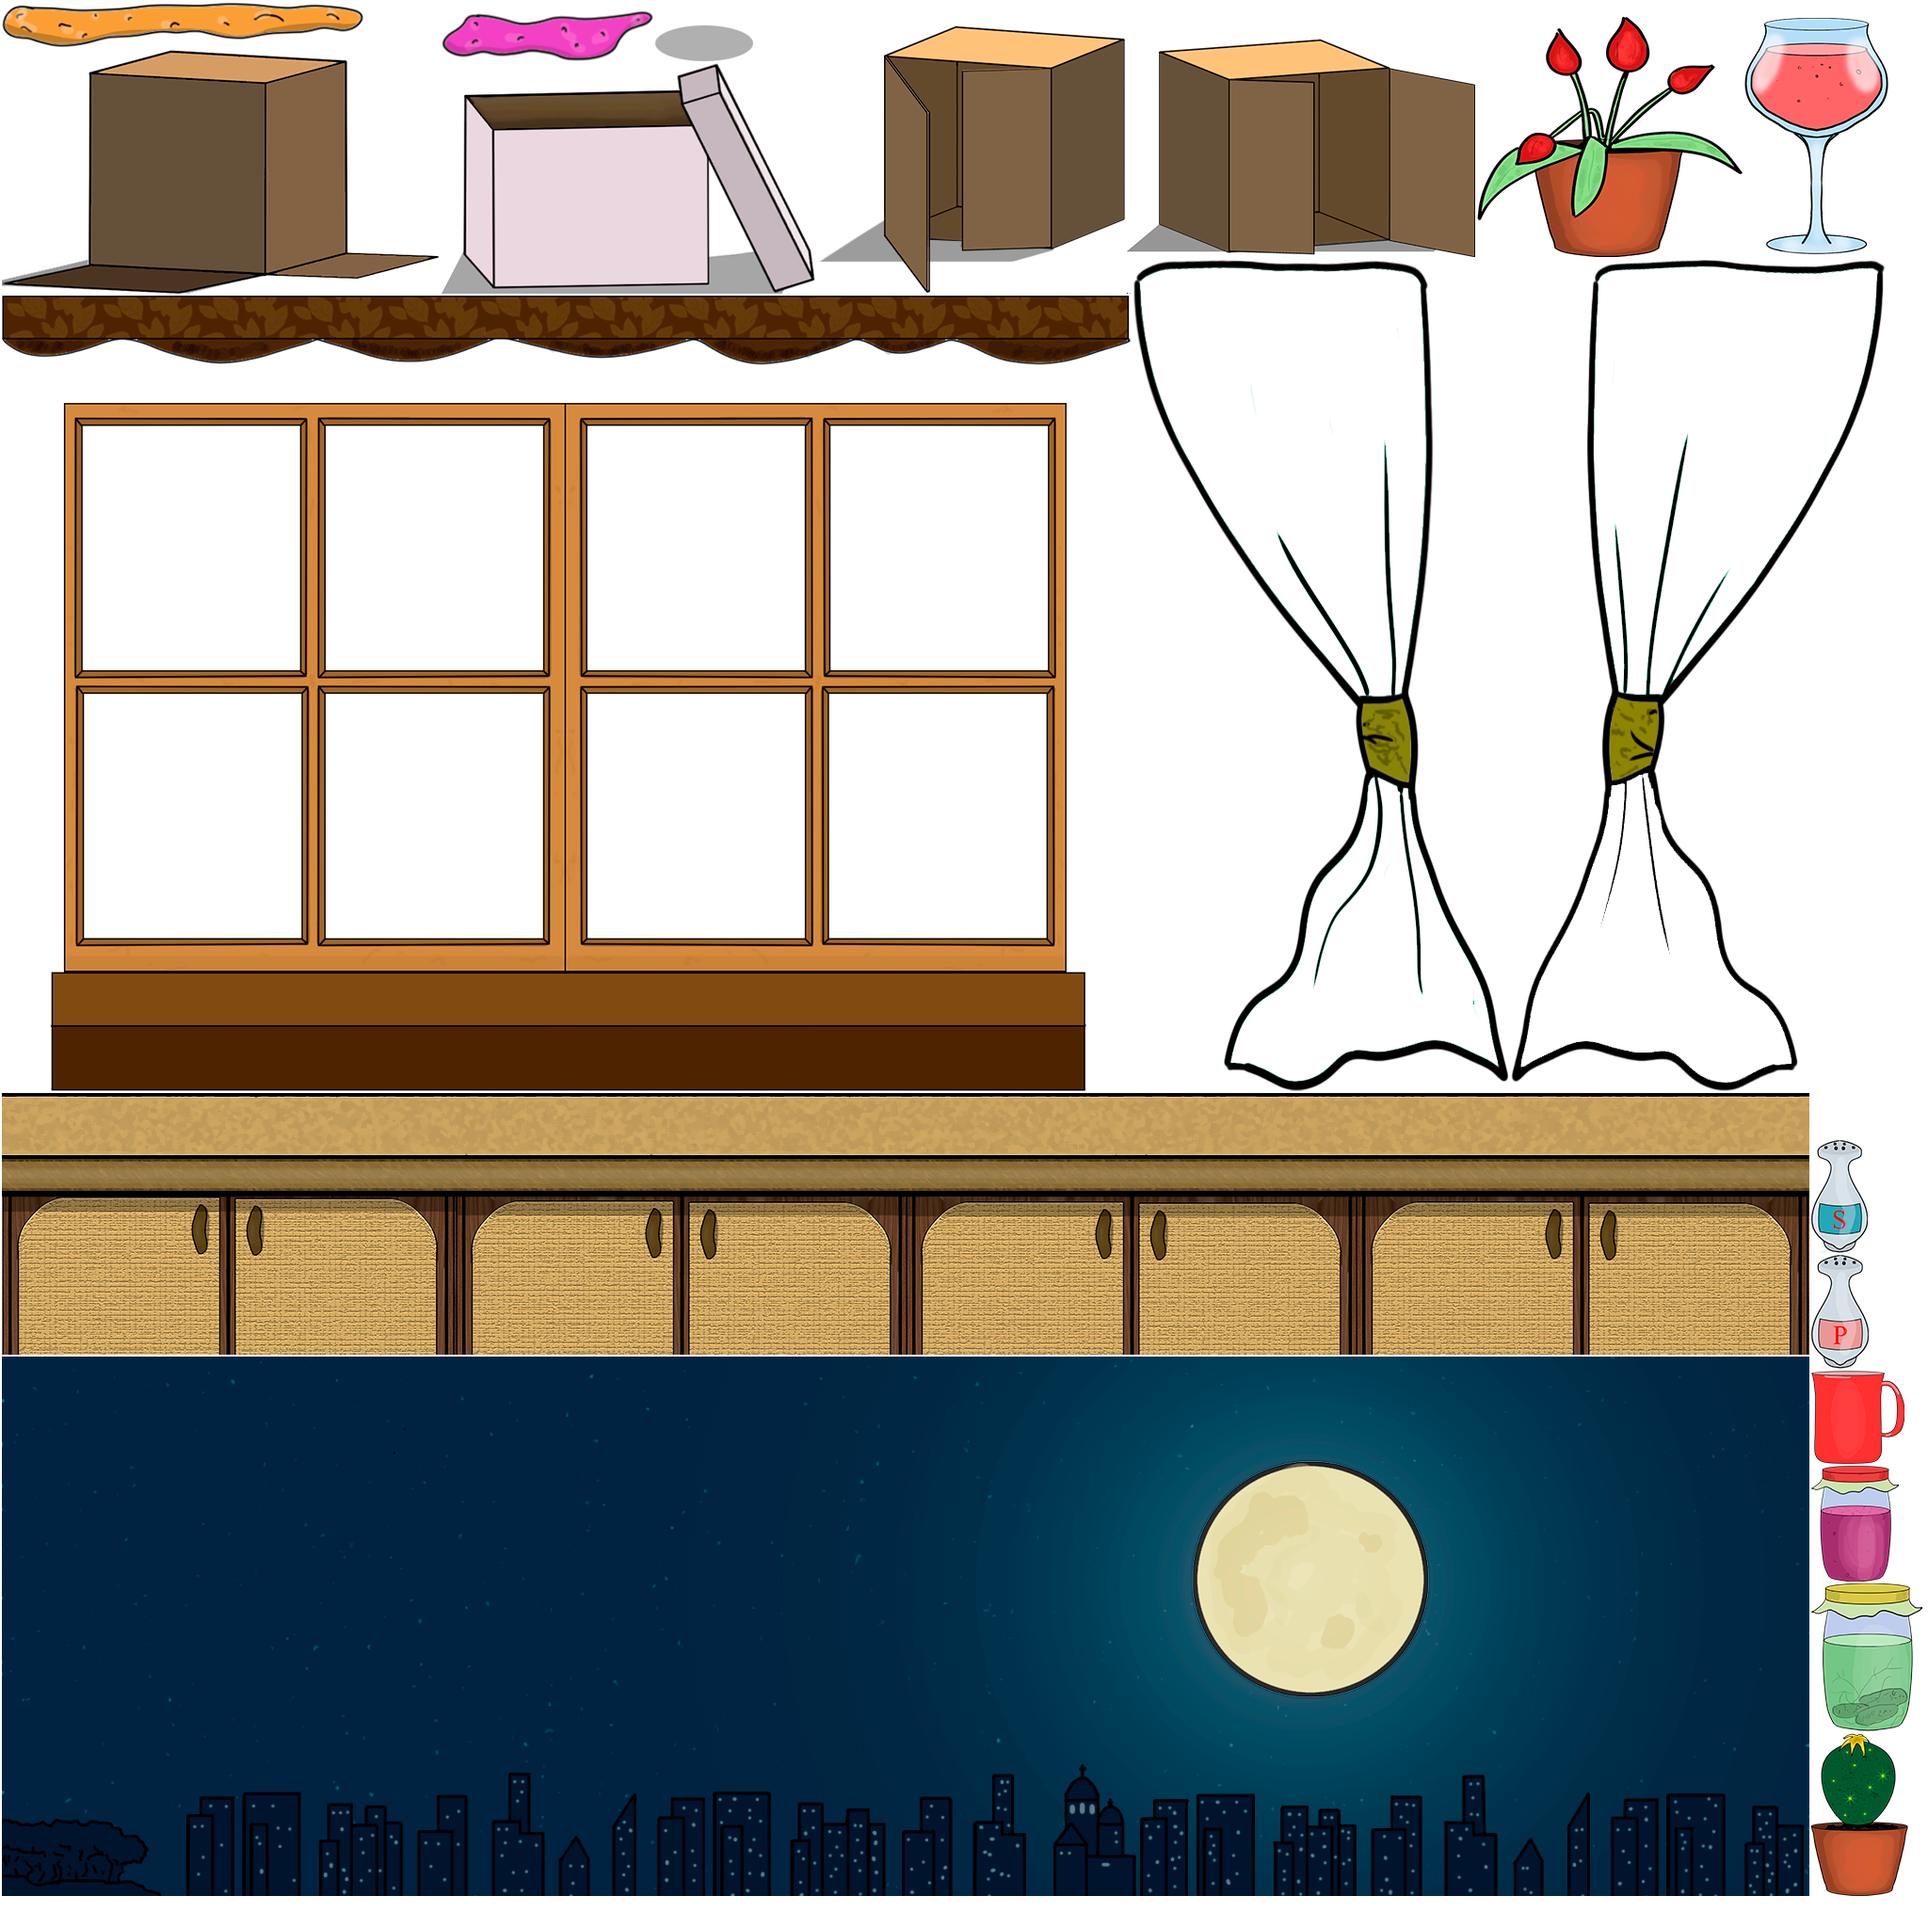
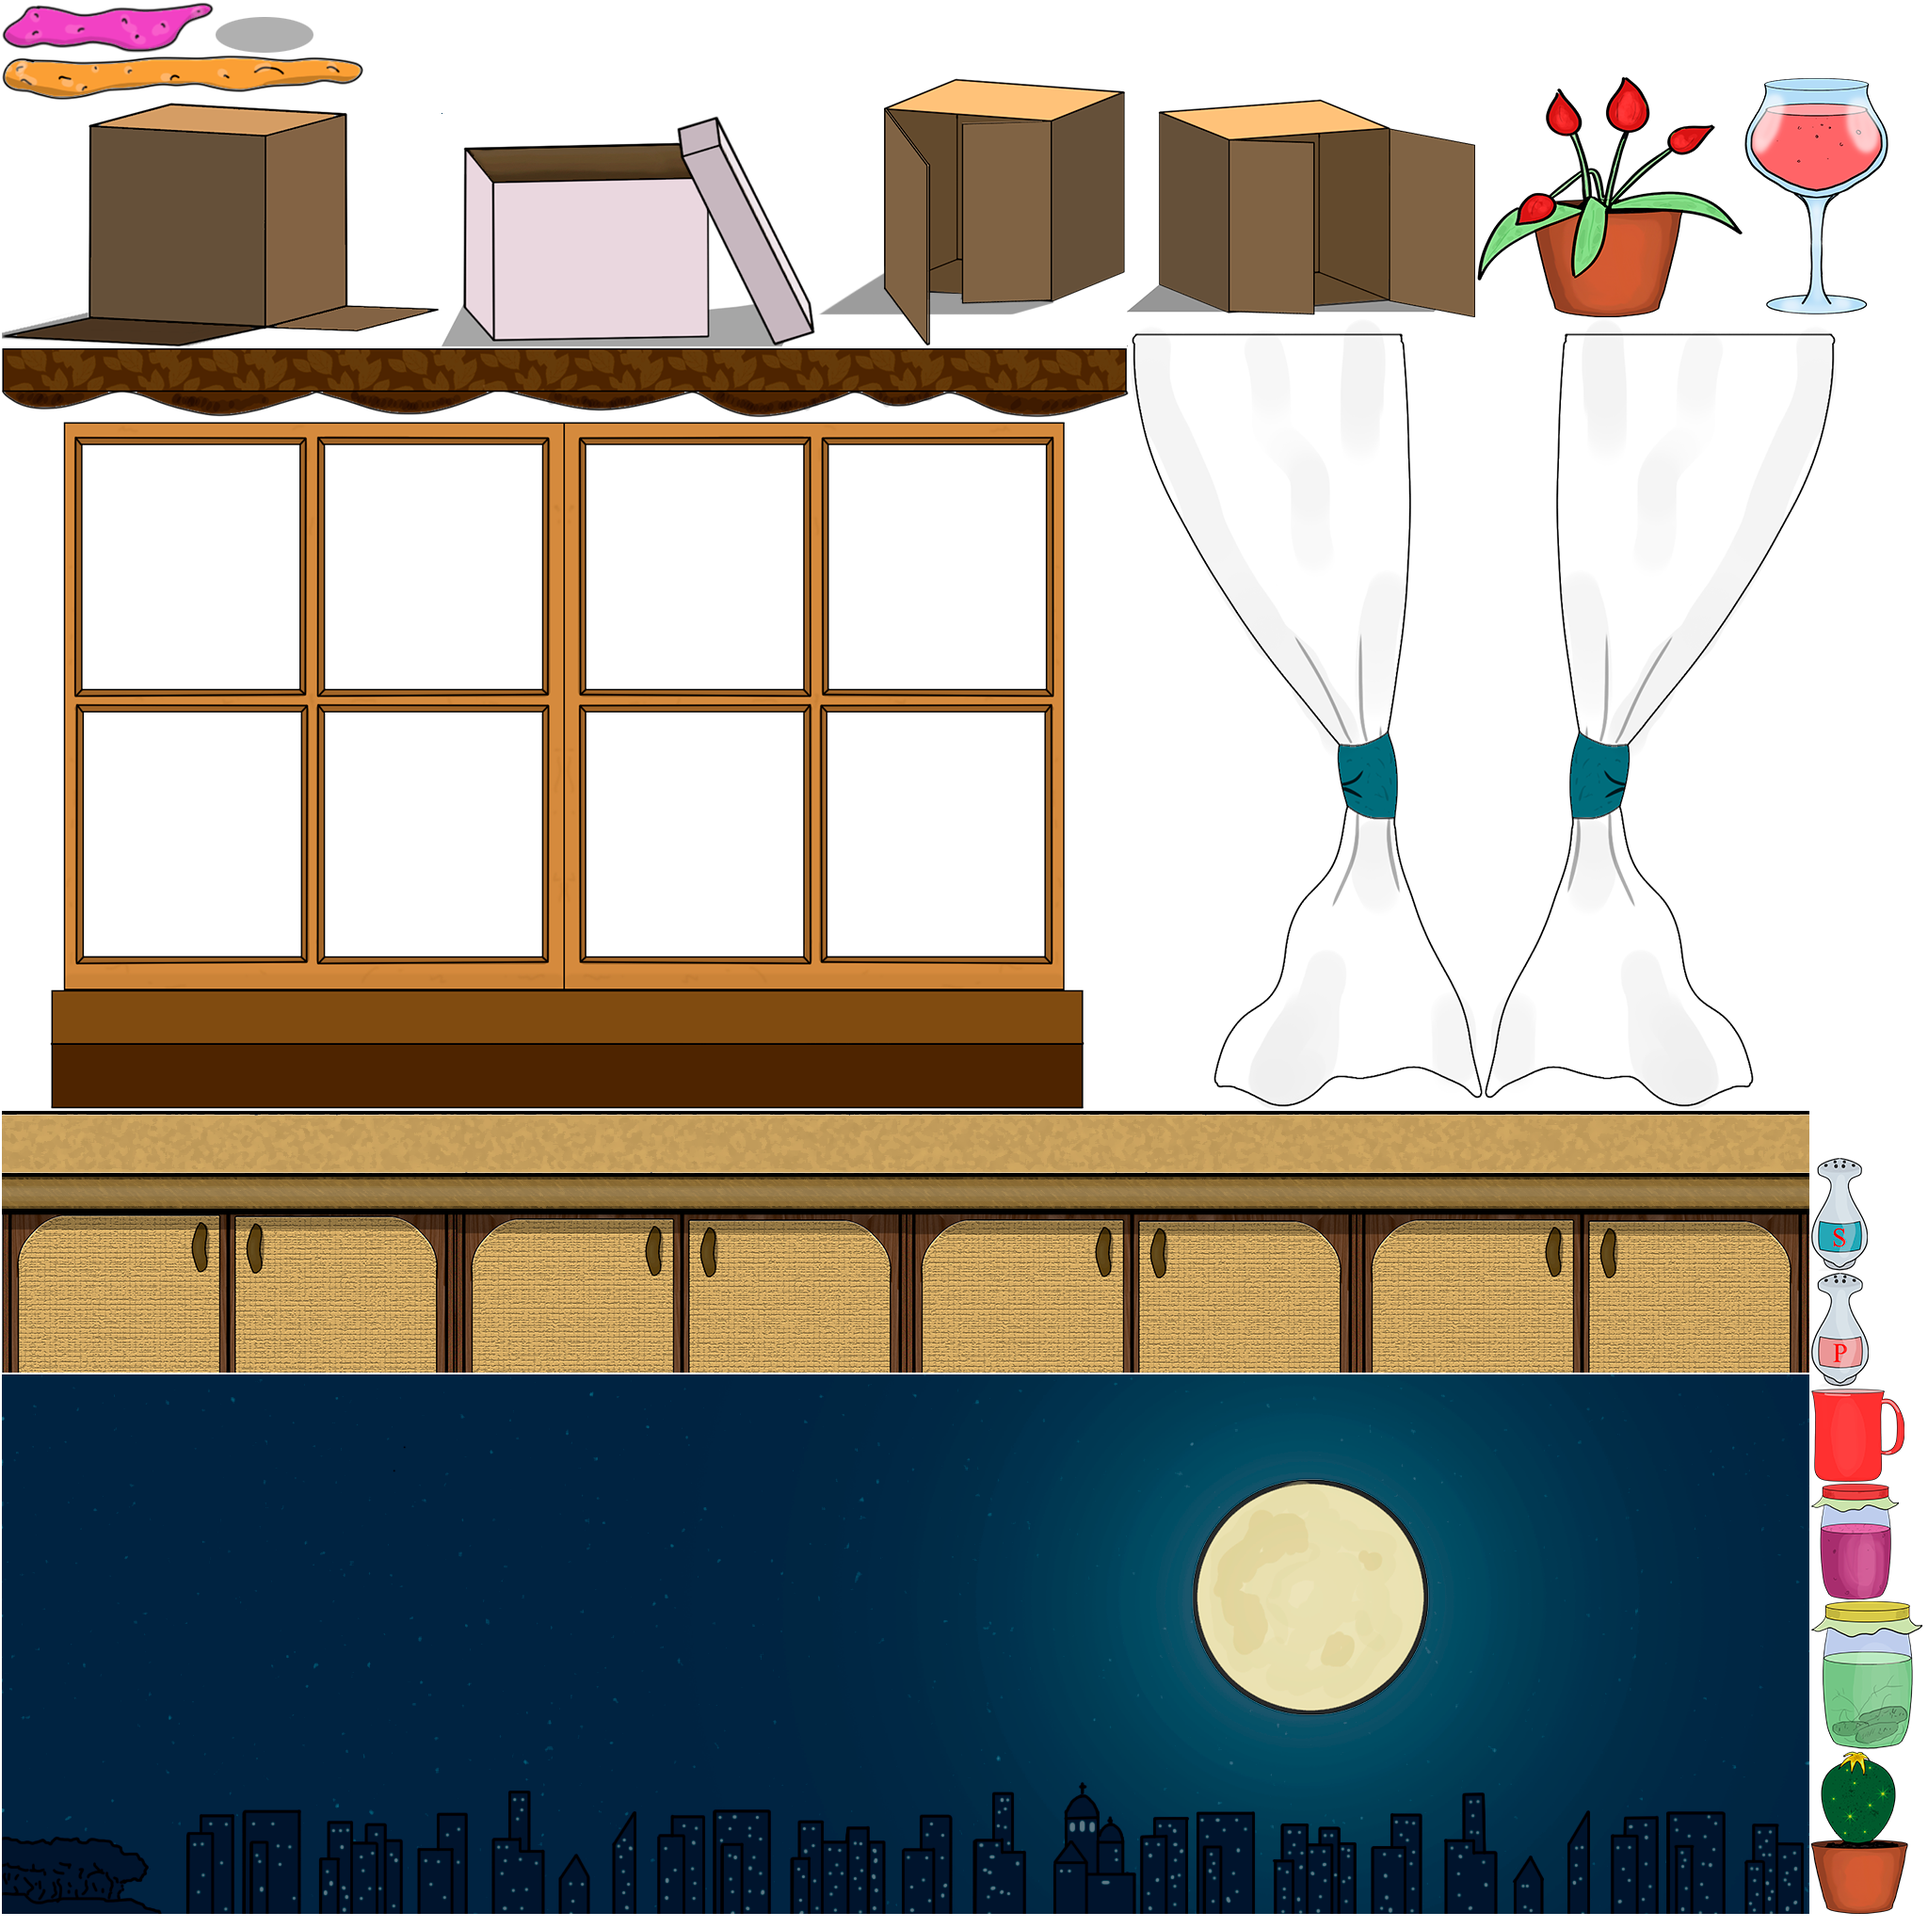
(fix) redraw curtains

diff --git a/core/src/com/mygdx/game/actors/game/Window.kt b/core/src/com/mygdx/game/actors/game/Window.kt
@@ -47,10 +47,10 @@ class Window(manager : AssetManager, startY : Float) : GameActor(), Scrollable {
                 scroll.width.toFloat(), scroll.height.toFloat())
 
         //batch.color = curtainColor
-        batch.draw(curtainLeft, scroll.getX() - 40, scroll.getY(),
+        batch.draw(curtainLeft, scroll.getX() - 80, scroll.getY() - 60,
                 curtainLeft.originalWidth.toFloat(), curtainLeft.originalHeight.toFloat())
 
-        batch.draw(curtainRight, scroll.getX() + 850, scroll.getY(),
+        batch.draw(curtainRight, scroll.getX() + 900, scroll.getY() - 60,
                 curtainLeft.originalWidth.toFloat(), curtainLeft.originalHeight.toFloat())
         batch.color = Color.GRAY
     }
@@ -81,7 +81,7 @@ class Window(manager : AssetManager, startY : Float) : GameActor(), Scrollable {
 
     override fun getX() = scroll.getX()
     override fun getY() = scroll.getY()
-    fun getWindowsillY() = scroll.getY() + 160
+    fun getWindowsillY() = scroll.getY() + 90
     fun getWindowsillX() = scroll.getX() + 280
 
     fun addResetListener(listener: Listener){

diff --git a/core/src/com/mygdx/game/actors/game/City.kt b/core/src/com/mygdx/game/actors/game/City.kt
@@ -22,10 +22,10 @@ class City(manager : AssetManager, private val window : Window) : GameActor(), S
     override fun draw(batch: Batch?, parentAlpha: Float) {
 
         val windowPos = Position(
-                window.scroll.getX() + 110,
-                window.scroll.getY() - 40,
-                window.scroll.width -200f,
-                window.scroll.height -100f)
+                window.scroll.getX() + 85,
+                window.scroll.getY() - 0,
+                window.scroll.width - 150f,
+                window.scroll.height - 100f)
 
         val cityHidePos = Hideable(posCity, windowPos)
 

diff --git a/core/src/com/mygdx/game/GdxGame.kt b/core/src/com/mygdx/game/GdxGame.kt
@@ -9,7 +9,7 @@ class GdxGame : Game() {
 
     override fun create() {
         ScreenManager.game = this
-        ScreenManager.setScreen(GAME_SCREEN)
+        ScreenManager.setScreen(START_SCREEN)
         GameSettings.DEBUG.state = false
     }
 
